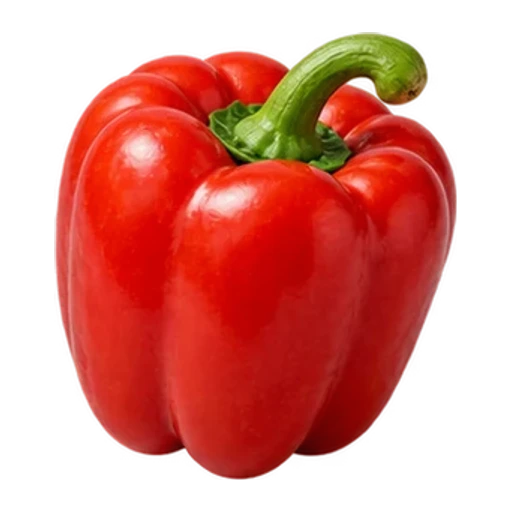
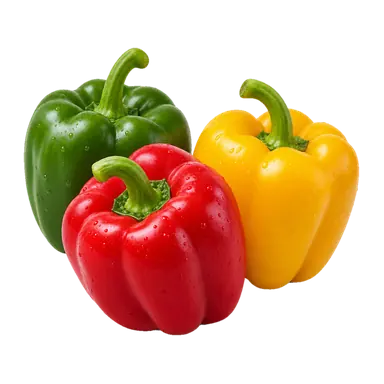
v724 — corriger les contours et le cadrage de trois Fruits & Légumes
Remplacer Poivrons, Asperges et Tomates par trois WebP individuels transparents contrôlés à 192 px, sans bord coupé ni halo parasite. Préserver les sept autres visuels du lot, le catalogue et Home Assistant. Invalider uniquement les images et métriques concernées, versionner v724 et documenter les vérifications.

diff --git a/sw.js b/sw.js
@@ -1,15 +1,15 @@
-const CACHE='courses-app-v723-r1';
+const CACHE='courses-app-v724-r1';
 const VISUAL_CACHE='courses-visuals-v2';
 const ERROR_INBOX_CACHE='courses-error-inbox-v1';
 // Invalider uniquement les visuels renouvelés depuis v714, dont Viandes & poissons v721.
-const UPDATED_ITEM_VISUALS=["./www/Items/quinoa.webp","./www/Items/couscous.webp","./www/Items/polenta.webp","./www/Items/lentilles.webp","./www/Items/haricots-rouges.webp","./www/Items/pois-chiches.webp","./www/Items/noix-de-coco-rapee.webp","./www/Items/gelatine.webp","./www/Items/levure-chimique.webp","./www/Items/pepites-chocolat.webp","./www/Items/bouillon-cubes.webp","./www/Items/nouilles-chinoises.webp","./www/Items/nouilles-instantanees.webp","./www/Items/bolognaise.webp","./www/Items/cereales.webp","./www/Items/the-noir.webp","./www/Items/chocolat-en-poudre.webp","./www/Items/flocons-d-avoine.webp","./www/Items/granola.webp","./www/Items/muesli.webp","./www/Items/matcha.webp","./www/Items/cacahuetes.webp","./www/Items/pistaches.webp","./www/Items/noix-de-cajou.webp","./www/Items/olives.webp","./www/Items/beurre-de-cacahuete.webp","./www/Items/pancakes.webp","./www/Items/chocolat-blanc.webp","./www/Items/muffins.webp","./www/Items/pop-corn.webp","./www/Items/gressins.webp","./www/Items/biscuits-aperitifs.webp","./www/Items/sirop-d-erable.webp","./www/Items/speculoos.webp","./www/Items/disques-coton.webp","./www/Items/gel-hydroalcoolique.webp","./www/Items/alcool-70.webp","./www/Items/beurre.webp","./www/Items/parmesan.webp","./www/Items/soignon.webp","./www/Items/lait.webp","./www/Items/lait-d-amande.webp","./www/Items/lait-d-avoine.webp","./www/Items/oeufs.webp","./www/Items/haricots-verts-surgeles.webp","./www/Items/legumes-surgeles.webp","./www/Items/petits-pois-surgeles.webp","./www/Items/poelee-de-legumes.webp","./www/Items/glace-chocolat.webp","./www/Items/glace-vanille.webp","./www/Items/glacons.webp","./www/Items/pate-a-pizza.webp","./www/Items/feta.webp","./www/Items/burrata.webp","./www/Items/ricotta.webp","./www/Items/gouda.webp","./www/Items/yaourt-a-boire.webp","./www/Items/gnocchis.webp","./www/Items/epinards-surgeles.webp","./www/Items/blanc-de-poulet.webp","./www/Items/saucisson.webp","./www/Items/maquereaux.webp","./www/Items/sardines.webp","./www/Items/poisson-surgele.webp","./www/Items/dinde.webp","./www/Items/escalopes-de-poulet.webp"];
+const UPDATED_ITEM_VISUALS=["./www/Items/poivrons.webp","./www/Items/asperges.webp","./www/Items/tomates.webp","./www/Items/quinoa.webp","./www/Items/couscous.webp","./www/Items/polenta.webp","./www/Items/lentilles.webp","./www/Items/haricots-rouges.webp","./www/Items/pois-chiches.webp","./www/Items/noix-de-coco-rapee.webp","./www/Items/gelatine.webp","./www/Items/levure-chimique.webp","./www/Items/pepites-chocolat.webp","./www/Items/bouillon-cubes.webp","./www/Items/nouilles-chinoises.webp","./www/Items/nouilles-instantanees.webp","./www/Items/bolognaise.webp","./www/Items/cereales.webp","./www/Items/the-noir.webp","./www/Items/chocolat-en-poudre.webp","./www/Items/flocons-d-avoine.webp","./www/Items/granola.webp","./www/Items/muesli.webp","./www/Items/matcha.webp","./www/Items/cacahuetes.webp","./www/Items/pistaches.webp","./www/Items/noix-de-cajou.webp","./www/Items/olives.webp","./www/Items/beurre-de-cacahuete.webp","./www/Items/pancakes.webp","./www/Items/chocolat-blanc.webp","./www/Items/muffins.webp","./www/Items/pop-corn.webp","./www/Items/gressins.webp","./www/Items/biscuits-aperitifs.webp","./www/Items/sirop-d-erable.webp","./www/Items/speculoos.webp","./www/Items/disques-coton.webp","./www/Items/gel-hydroalcoolique.webp","./www/Items/alcool-70.webp","./www/Items/beurre.webp","./www/Items/parmesan.webp","./www/Items/soignon.webp","./www/Items/lait.webp","./www/Items/lait-d-amande.webp","./www/Items/lait-d-avoine.webp","./www/Items/oeufs.webp","./www/Items/haricots-verts-surgeles.webp","./www/Items/legumes-surgeles.webp","./www/Items/petits-pois-surgeles.webp","./www/Items/poelee-de-legumes.webp","./www/Items/glace-chocolat.webp","./www/Items/glace-vanille.webp","./www/Items/glacons.webp","./www/Items/pate-a-pizza.webp","./www/Items/feta.webp","./www/Items/burrata.webp","./www/Items/ricotta.webp","./www/Items/gouda.webp","./www/Items/yaourt-a-boire.webp","./www/Items/gnocchis.webp","./www/Items/epinards-surgeles.webp","./www/Items/blanc-de-poulet.webp","./www/Items/saucisson.webp","./www/Items/maquereaux.webp","./www/Items/sardines.webp","./www/Items/poisson-surgele.webp","./www/Items/dinde.webp","./www/Items/escalopes-de-poulet.webp"];
 const CORE_VISUALS=[
   './welcome-cart-transparent-v46.png',
   './welcome-background-v40.webp',
   './www/empty-list-premium-v4.webp?v=305',
   './www/list-header-citrons-v552.webp'
 ];
-const SHELL=["./index.html","./marble-ivory-sage-v517.svg","./styles.css?v=692","./product-item-first-paint.css?v=610","./catalog.js?v=723","./preferences-service.js?v=398","./missing-requests-store.js?v=718","./courses-notifications.js?v=482","./bottom-nav-liquid.js?v=573","./app.js?v=718","./settings-tab-badge.js?v=410","./settings-ui.js?v=712","./error-center.js?v=630","./dishes.css?v=675","./catalog-liquid.css?v=675","./dish-detail.css?v=675","./catalog-liquid.js?v=635","./dishes-ui.js?v=717","./catalog-quantities.js?v=720","./repurchase-soon.js?v=701","./dish-local-images.js?v=723","./app-ui.js?v=692","./runtime-features.js?v=723","./missing-products-fixes.js?v=656","./missing-products-popup-ui.js?v=675","./product-item-images.js?v=723","./catalog-product-admin.js?v=712","./purchase-intelligence.js?v=718","./missing-products-dishes.js?v=712","./missing-products-modern.js?v=635","./dish-added-marker.js?v=679","./manifest.webmanifest?v=43","./icon-premium-v40.svg","./icon.svg","./apple-touch-icon.png","./docs/guide-fonctionnement-courses.pdf?v=299"];
+const SHELL=["./index.html","./marble-ivory-sage-v517.svg","./styles.css?v=692","./product-item-first-paint.css?v=610","./catalog.js?v=724","./preferences-service.js?v=398","./missing-requests-store.js?v=718","./courses-notifications.js?v=482","./bottom-nav-liquid.js?v=573","./app.js?v=718","./settings-tab-badge.js?v=410","./settings-ui.js?v=712","./error-center.js?v=630","./dishes.css?v=675","./catalog-liquid.css?v=675","./dish-detail.css?v=675","./catalog-liquid.js?v=635","./dishes-ui.js?v=717","./catalog-quantities.js?v=720","./repurchase-soon.js?v=701","./dish-local-images.js?v=724","./app-ui.js?v=692","./runtime-features.js?v=723","./missing-products-fixes.js?v=656","./missing-products-popup-ui.js?v=675","./product-item-images.js?v=724","./catalog-product-admin.js?v=712","./purchase-intelligence.js?v=718","./missing-products-dishes.js?v=712","./missing-products-modern.js?v=635","./dish-added-marker.js?v=679","./manifest.webmanifest?v=43","./icon-premium-v40.svg","./icon.svg","./apple-touch-icon.png","./docs/guide-fonctionnement-courses.pdf?v=299"];
 const refreshedVisuals=new Set();
 // Fichiers précachés de la version courante (adresses versionnées) : servis depuis le cache, sans attendre le réseau.
 const SHELL_SUFFIXES=SHELL.filter(src=>src!=='./index.html').map(src=>src.slice(1));

diff --git a/index.html b/index.html
@@ -65,7 +65,7 @@
         <div>
           <div class="page-title-row">
             <h1>Ma liste</h1>
-            <span class="page-version">v723</span>
+            <span class="page-version">v724</span>
           </div>
           <p>Votre liste de courses</p>
         </div>
@@ -88,7 +88,7 @@
         <div>
           <div class="page-title-row">
             <h1>Catalogue</h1>
-            <span class="page-version">v723</span>
+            <span class="page-version">v724</span>
           </div>
           <p>Ajouter vos produits</p>
         </div>
@@ -124,7 +124,7 @@
         <div>
           <div class="page-title-row">
             <h1>Réglages</h1>
-            <span class="page-version">v723</span>
+            <span class="page-version">v724</span>
           </div>
           <p id="settingsHeaderStatus" aria-live="polite">Personnalisez votre expérience</p>
         </div>
@@ -440,8 +440,8 @@
   </dialog>
 
   <div id="toast" class="toast" role="status"></div>
-  <script src="./catalog.js?v=723"></script>
-  <script src="./product-item-images.js?v=723" data-product-item-images="1"></script>
+  <script src="./catalog.js?v=724"></script>
+  <script src="./product-item-images.js?v=724" data-product-item-images="1"></script>
   <script src="./preferences-service.js?v=398"></script>
   <script src="./missing-requests-store.js?v=718"></script>
   <script src="./courses-notifications.js?v=482"></script>

diff --git a/product-item-images.js b/product-item-images.js
@@ -27,6 +27,7 @@ const UPDATED_IMAGE_SOURCES_V722=new Set([
   'noix-de-coco-rapee','gelatine','levure-chimique','pepites-chocolat',
   'bouillon-cubes','nouilles-chinoises','nouilles-instantanees'
 ].map(slug=>'./www/Items/'+slug+'.webp'));
+const UPDATED_IMAGE_SOURCES_V724=new Set(['poivrons','asperges','tomates'].map(slug=>'./www/Items/'+slug+'.webp'));
 let visualScaleSaveTimer=0;
 
 const slugify=value=>String(value||'')
@@ -118,8 +119,9 @@ function loadVisualScaleCache(){
     if(!stored||!stored.items||typeof stored.items!=='object')return;
     const cacheVersion=Number(String(stored.version||'').replace(/^v/,''));
     const changedSinceCache=!Number.isFinite(cacheVersion)||cacheVersion<722;
+    const changedSince724=!Number.isFinite(cacheVersion)||cacheVersion<724;
     Object.entries(stored.items).forEach(([source,values])=>{
-      if(changedSinceCache&&UPDATED_IMAGE_SOURCES_V722.has(source))return;
+      if((changedSinceCache&&UPDATED_IMAGE_SOURCES_V722.has(source))||(changedSince724&&UPDATED_IMAGE_SOURCES_V724.has(source)))return;
       if(Array.isArray(values)&&values.length===3&&values.every(Number.isFinite)){
         visualScaleCache.set(source,{scale:values[0],shiftX:values[1],shiftY:values[2]});
       }

diff --git a/catalog.js b/catalog.js
@@ -84,7 +84,7 @@
   const loadDishLocalImages=()=>{
     if(document.querySelector('script[data-dish-local-images]')){onDishLocalImagesReady();return}
     const images=document.createElement('script');
-    images.src='./dish-local-images.js?v=723';
+    images.src='./dish-local-images.js?v=724';
     images.async=false;
     images.dataset.dishLocalImages='script';
     images.addEventListener('load',onDishLocalImagesReady,{once:true});

diff --git a/dish-local-images.js b/dish-local-images.js
@@ -1,7 +1,7 @@
 (() => {
 'use strict';
 
-const APP_VERSION='v723';
+const APP_VERSION='v724';
 window.COURSES_APP_VERSION=APP_VERSION;
 
 let warmQueue=[];

diff --git a/docs/IMAGE_CREDITS_V724.md b/docs/IMAGE_CREDITS_V724.md
@@ -1,0 +1,17 @@
+# Retouches Fruits & Légumes — v724 (2 novembre 2026)
+
+Dépôt source : `fabien95430/Dashboard-course`, base `5dbf10fbf7c865501c4bfdf8e290b69527f5138c`.
+
+Seules trois images unitaires sont remplacées : `www/Items/poivrons.webp`, `www/Items/asperges.webp` et `www/Items/tomates.webp`. Les sept autres visuels vérifiés (fraises, myrtilles, framboises, mûres, avocat, mangue et mâche) restent inchangés. Le contenu de `catalog.js`, Ma liste et la synchronisation Home Assistant ne changent pas.
+
+Provenance : créations individuelles originales ImageGen, sans emballage, sans marque, isolées sur fond transparent. Post-traitement Pillow/NumPy : suppression des pixels isolés et des ombres parasites par masque alpha, conservation de la principale composante, antialiasing léger, centrage, export WebP RGBA 384 × 384 px, qualité 77.
+
+| Produit | Taille (octets) | Marges gauche/haut/droite/bas (px) | SHA-256 |
+|---|---:|---|---|
[3 lines of base64/hex data omitted]
+
+Contrôles : réouverture des trois WebP, quatre coins et bords alpha nuls, aucune coupure, poids sous 150 Kio. Prévisualisation sur fonds blanc et sauge à 192 px. Les trois sources sont invalidées dans le cache visuel du service worker et leurs métriques de cadrage sont recalculées sans redéclencher une analyse générale. Les anciennes sources inchangées conservent leurs métriques.
+
+Validation des tests via `bash scripts/validate_repo.sh` dans le workflow `validate.yml` sur `main` après publication.
